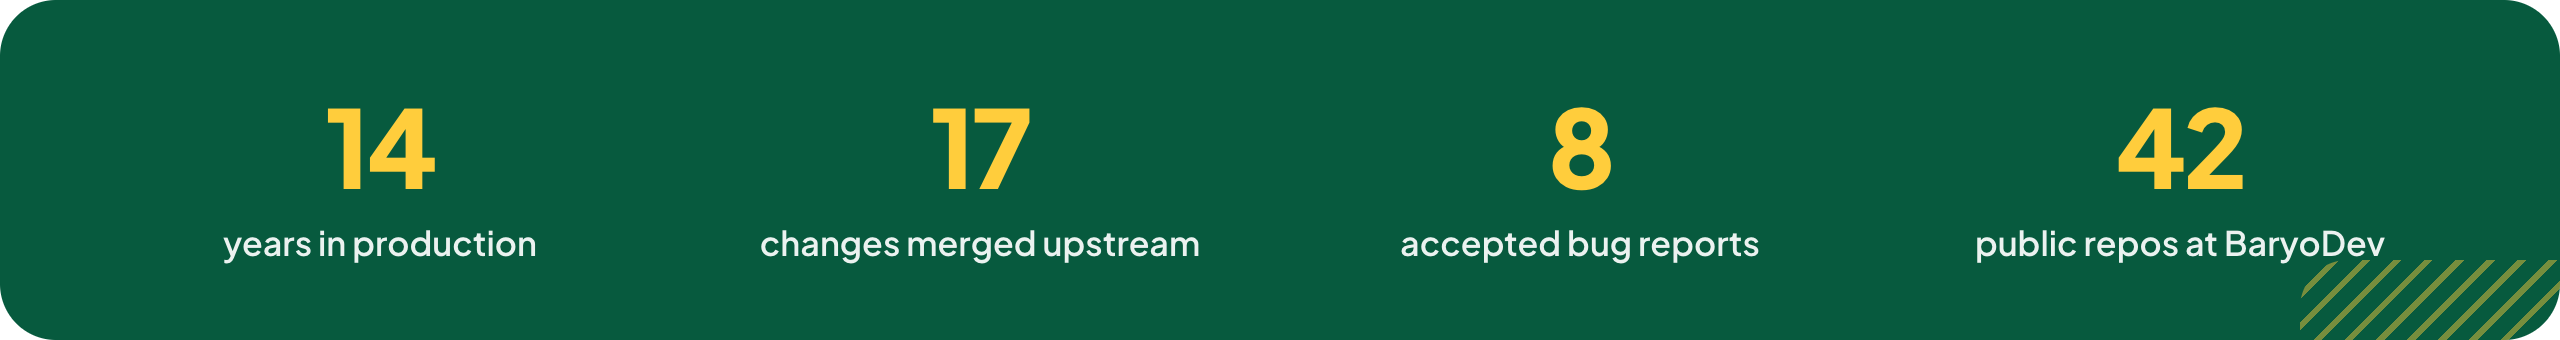
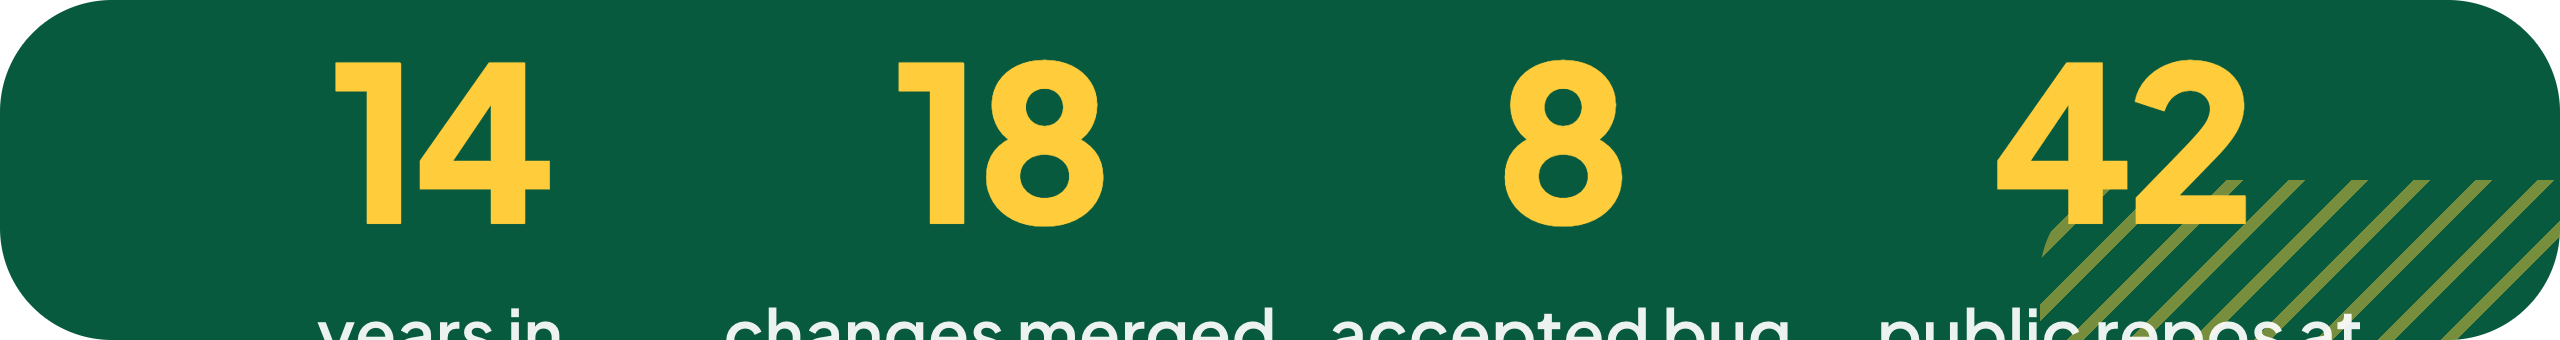
add umbraco #24516, bump upstream count to 18

diff --git a/art/build.py b/art/build.py
@@ -52,7 +52,7 @@ SECTION = """
   </div>
 </div>"""
 
-STATS = [("14", "years in production"), ("17", "changes merged upstream"),
+STATS = [("14", "years in production"), ("18", "changes merged upstream"),
          ("8", "accepted bug reports"), ("42", "public repos at BaryoDev")]
 
 STATS_HTML = """

diff --git a/README.md b/README.md
@@ -22,7 +22,7 @@
   <a href="#stack">Stack</a>
 </sub></p>
 
-<img alt="14 years in production, 17 changes merged upstream, 8 accepted bug reports, 42 public repos at BaryoDev" src="assets/stats.png" width="100%">
+<img alt="14 years in production, 18 changes merged upstream, 8 accepted bug reports, 42 public repos at BaryoDev" src="assets/stats.png" width="100%">
 
 > **You can contact me at [arnelirobles@gmail.com](mailto:arnelirobles@gmail.com?subject=Hello%20from%20your%20GitHub).**
 
@@ -35,7 +35,7 @@ In 30 seconds:
 - **I design platforms.** [barakoCMS](https://github.com/BaryoDev/barakoCMS) is a multi-tenant, metadata-driven data platform on .NET and PostgreSQL, with its console, renderer, client and deploy tool, all public and all running.
 - **I ship LLM and agent systems** that respect permissions and get checked by something other than a person's say-so.
 - **I audit web applications** against OWASP WSTG and ASVS and hand back a report ranked by what to fix first.
-- **Seventeen changes merged upstream** in Umbraco, Marten and Testcontainers, nearly all for a bug my own projects hit.
+- **Eighteen changes merged upstream** in Umbraco, Marten and Testcontainers, nearly all for a bug my own projects hit.
 
 <a id="the-platform-i-design-and-run"></a>
 <img alt="The platform I design and run" src="assets/section-platform.png" width="100%">
@@ -89,15 +89,15 @@ Broken access control and IDOR (an id from the URL used to load or mutate anothe
 <a id="open-source-contributor"></a>
 <img alt="Open source contributor" src="assets/section-upstream.png" width="100%">
 
-<a href="https://github.com/search?q=author%3Aarnelirobles+type%3Apr+is%3Amerged+org%3Aumbraco+org%3Atestcontainers+org%3AJasperFx&type=pullrequests"><img alt="17 merged upstream" src="https://img.shields.io/badge/upstream-17%20merged-0b7a55?style=flat-square&logo=github"></a>
+<a href="https://github.com/search?q=author%3Aarnelirobles+type%3Apr+is%3Amerged+org%3Aumbraco+org%3Atestcontainers+org%3AJasperFx&type=pullrequests"><img alt="18 merged upstream" src="https://img.shields.io/badge/upstream-18%20merged-0b7a55?style=flat-square&logo=github"></a>
 <a href="https://github.com/search?q=author%3Aarnelirobles+type%3Aissue+org%3Aumbraco+org%3Atestcontainers+org%3AJasperFx&type=issues"><img alt="8 accepted bug reports" src="https://img.shields.io/badge/bug%20reports%20accepted-8-f08a24?style=flat-square&logo=github"></a>
 <a href="https://github.com/BaryoDev"><img alt="42 public repositories" src="https://img.shields.io/badge/%40BaryoDev-42%20public%20repos-c2461a?style=flat-square&logo=github"></a>
 
-**Seventeen merged changes and eight accepted bug reports** in libraries I run in production, across four repos totalling 13k stars. Most started from a bug I hit in my own projects rather than from browsing a tracker for something to fix. The badges are live searches, so they answer for themselves.
+**Eighteen merged changes and eight accepted bug reports** in libraries I run in production, across four repos totalling 13k stars. Most started from a bug I hit in my own projects rather than from browsing a tracker for something to fix. The badges are live searches, so they answer for themselves.
 
 | Project | What was wrong |
 |---|---|
-| **[umbraco/Umbraco-CMS](https://github.com/umbraco/Umbraco-CMS)**<br><sub>★5.3k</sub> | Instances sharing a database failed each other's requests registering the same OpenIddict application. [#23599](https://github.com/umbraco/Umbraco-CMS/pull/23599), [#23727](https://github.com/umbraco/Umbraco-CMS/pull/23727), shipped in 17.7 and 18.2. A disabled or locked out user kept a valid back-office cookie, so they were issued fresh tokens and landed in an empty back office where every call returned 403 and there was no way to log out. [#23995](https://github.com/umbraco/Umbraco-CMS/pull/23995) signs them out instead, in the 17.8 and 18.3 release candidates. On SQLite the Delivery API returned create and update dates with no UTC marker, so clients read them as local time. [#24514](https://github.com/umbraco/Umbraco-CMS/pull/24514). Saving rich text cleared the media path from every attribute of an image, not just `src`, so attributes like `data-absolute-url` came back empty. [#24515](https://github.com/umbraco/Umbraco-CMS/pull/24515) |
+| **[umbraco/Umbraco-CMS](https://github.com/umbraco/Umbraco-CMS)**<br><sub>★5.3k</sub> | Instances sharing a database failed each other's requests registering the same OpenIddict application. [#23599](https://github.com/umbraco/Umbraco-CMS/pull/23599), [#23727](https://github.com/umbraco/Umbraco-CMS/pull/23727), shipped in 17.7 and 18.2. A disabled or locked out user kept a valid back-office cookie, so they were issued fresh tokens and landed in an empty back office where every call returned 403 and there was no way to log out. [#23995](https://github.com/umbraco/Umbraco-CMS/pull/23995) signs them out instead, in the 17.8 and 18.3 release candidates. On SQLite the Delivery API returned create and update dates with no UTC marker, so clients read them as local time. [#24514](https://github.com/umbraco/Umbraco-CMS/pull/24514). Saving rich text cleared the media path from every attribute of an image, not just `src`, so attributes like `data-absolute-url` came back empty. [#24515](https://github.com/umbraco/Umbraco-CMS/pull/24515). On a load-balanced site the security stamp check read a user from a stale isolated cache, so a server could accept a stamp another server had already changed. [#24516](https://github.com/umbraco/Umbraco-CMS/pull/24516) syncs the cache before that lookup. |
 | **[testcontainers/testcontainers-dotnet](https://github.com/testcontainers/testcontainers-dotnet)**<br><sub>★4.4k</sub> | MongoDB replica-set init was not idempotent, so a reused container hung against a one-hour timeout. [#1731](https://github.com/testcontainers/testcontainers-dotnet/pull/1731), [#1735](https://github.com/testcontainers/testcontainers-dotnet/pull/1735). A reused Couchbase container then stalled on the first step of configuring a cluster that was already configured. [#1736](https://github.com/testcontainers/testcontainers-dotnet/pull/1736). Confluent Platform 8.x images exited on startup because the module left a trailing comma in the advertised listeners, which Kafka 4 rejects. [#1772](https://github.com/testcontainers/testcontainers-dotnet/pull/1772). With that fixed, they still defaulted to ZooKeeper, which 8.x removed. [#1775](https://github.com/testcontainers/testcontainers-dotnet/pull/1775). The docs never said how builder calls combine, so setting your own startup callback on a module silently replaced its provisioning, and MongoDB never initiated its replica set. [#1770](https://github.com/testcontainers/testcontainers-dotnet/pull/1770) documents the rules on a page of their own |
 | **[JasperFx/marten](https://github.com/JasperFx/marten)**<br><sub>★3.5k</sub> | `HardDeleteWhere` could not remove already soft-deleted rows, and returned cleanly either way. [#5215](https://github.com/JasperFx/marten/pull/5215), [#5202](https://github.com/JasperFx/marten/pull/5202), [#5240](https://github.com/JasperFx/marten/pull/5240). The parameterised `MatchesJsonPath` overload threw on every call, so no one could have been using it. [#5289](https://github.com/JasperFx/marten/pull/5289). The pgvector docs still described a recall cap the library had stopped applying, and the caveat that replaced it was wrong for hybrid search. [#5467](https://github.com/JasperFx/marten/pull/5467) |
 | **[JasperFx/jasperfx](https://github.com/JasperFx/jasperfx)**<br><sub>core library</sub> | The event loader claimed a ceiling it had never scanned, so a fully skipped batch could advance past events and lose them permanently. Reported on Marten, then fixed at the source. [#670](https://github.com/JasperFx/jasperfx/pull/670) |
